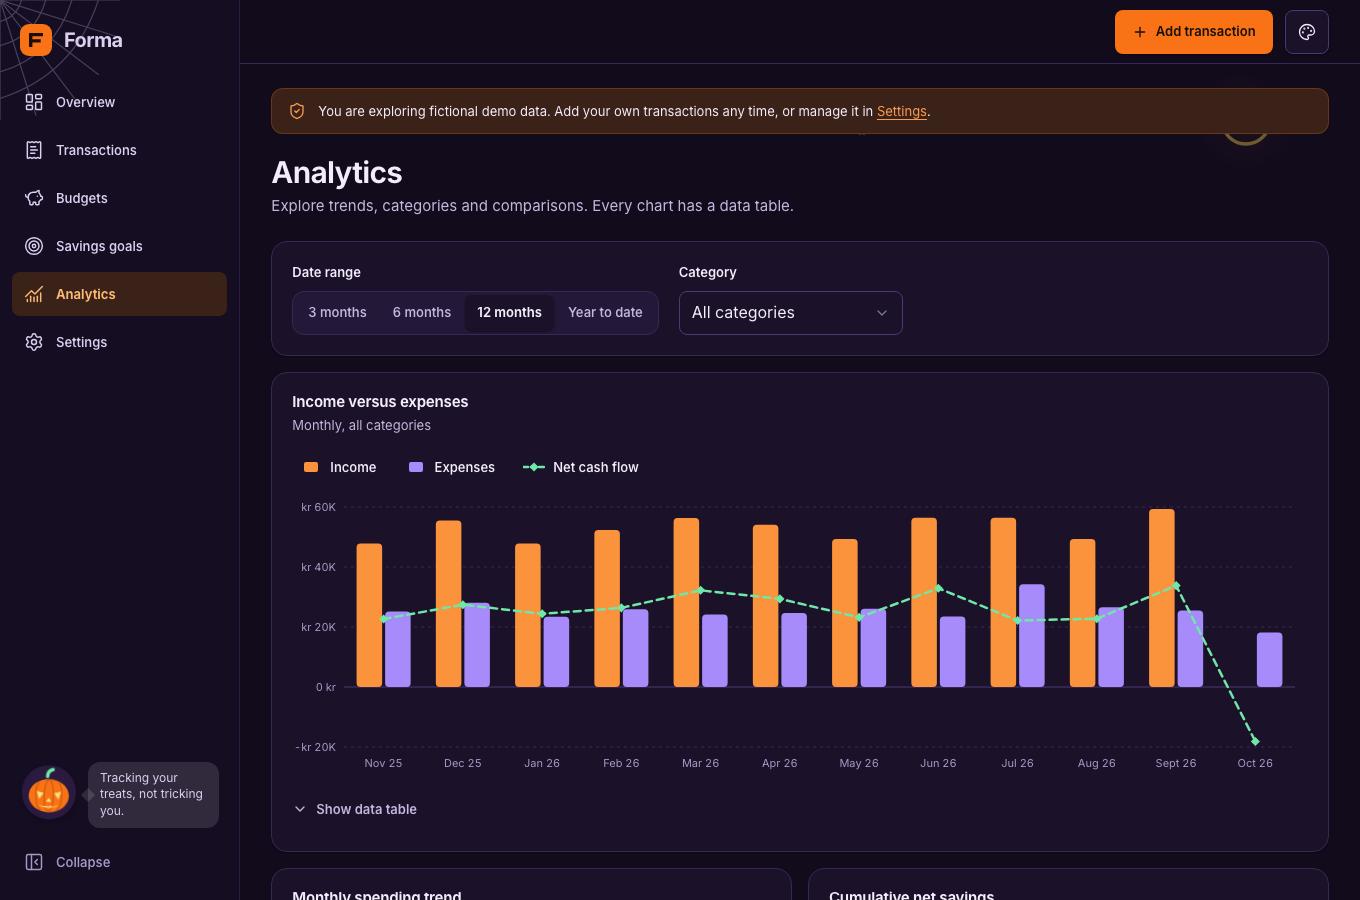
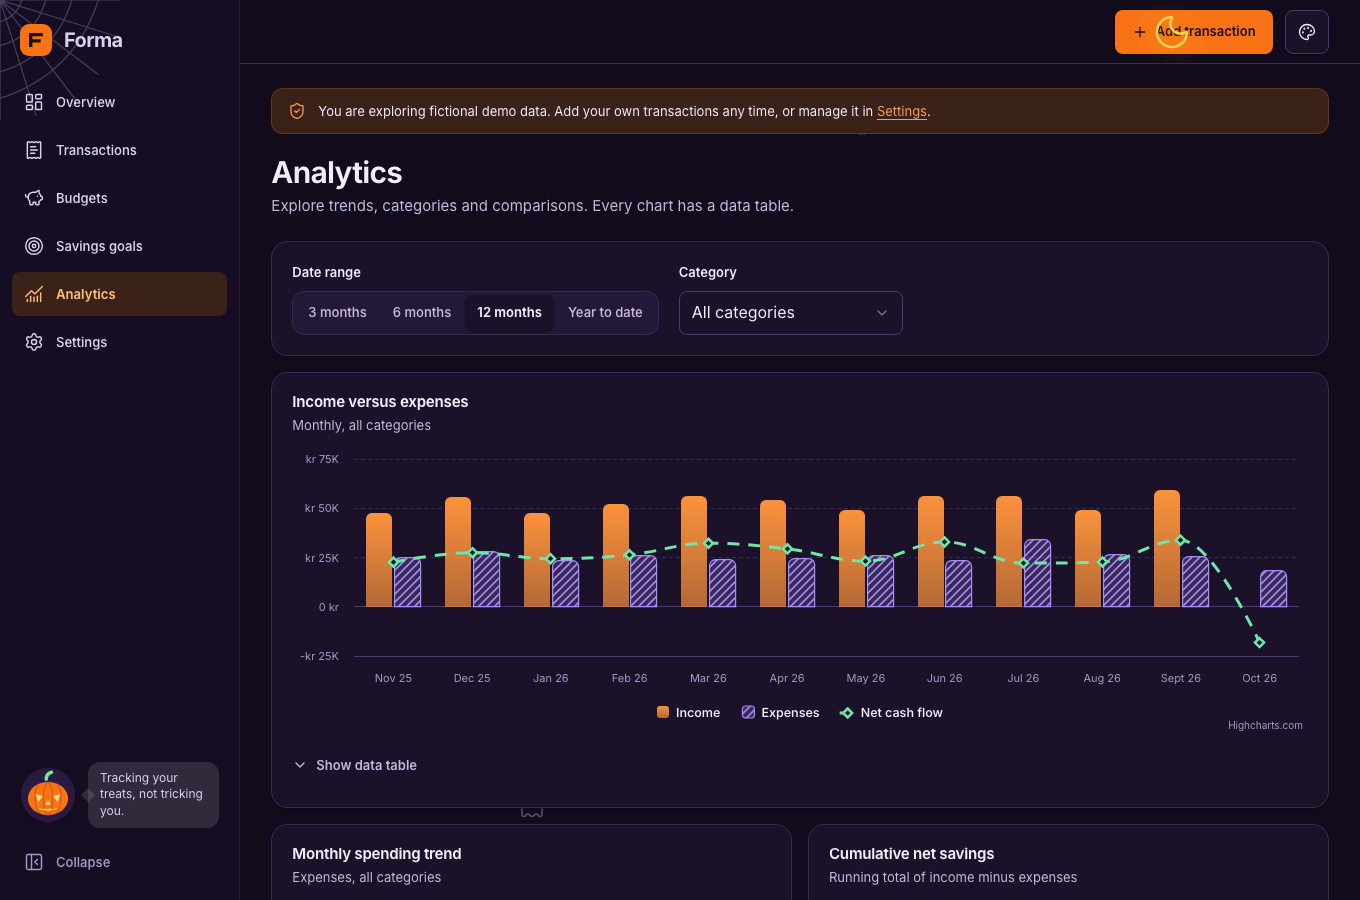
docs: refresh screenshots and add measured Lighthouse results with report images

diff --git a/README.md b/README.md
@@ -8,9 +8,13 @@ Forma Analytics is an independently branded educational and portfolio project, n
 
 ![Overview in the light theme](docs/screenshots/overview-light.png)
 
+| Analytics (light) | Spending heatmap (dark) |
+| --- | --- |
+| ![Analytics in the light theme](docs/screenshots/analytics-light.png) | ![Spending heatmap in the dark theme](docs/screenshots/heatmap-dark.png) |
+
 | Dark | Halloween | Christmas | Mobile (Summer) |
 | --- | --- | --- | --- |
-| ![Dark](docs/screenshots/overview-dark.png) | ![Halloween](docs/screenshots/analytics-halloween.png) | ![Christmas](docs/screenshots/budgets-christmas.png) | ![Mobile](docs/screenshots/overview-mobile.png) |
+| ![Overview in the dark theme](docs/screenshots/overview-dark.png) | ![Analytics in the Halloween theme](docs/screenshots/analytics-halloween.png) | ![Budgets in the Christmas theme](docs/screenshots/budgets-christmas.png) | ![Overview on a phone in the Summer theme](docs/screenshots/overview-mobile.png) |
 
 ## Features
 
@@ -95,15 +99,34 @@ The target is WCAG 2.2 AA. This includes semantic landmarks and headings, a skip
 
 ## Performance and Lighthouse
 
-Measured with Lighthouse against the production build served by `vite preview` on a local machine (Chrome, default Lighthouse throttling; mobile uses simulated slow 4G and 4x CPU slowdown). Re-measured on 8 Oct 2026 after the Highcharts integration with `npm run lighthouse`; raw results are in `reports/lighthouse.json`.
+Measured with Lighthouse against the **deployed site** (https://olebraende.github.io/forma-analytics/) on 8 Oct 2026, using Chrome with Lighthouse's default throttling (mobile means simulated slow 4G and a 4x CPU slowdown). Reproduce with `npm run lighthouse`; raw results are in `reports/lighthouse-live.json`, and `reports/lighthouse.json` holds an earlier run against a local production build.
+
+**Desktop: 100 in all four categories on every route.** These are the Overview scores, straight from the Lighthouse report:
+
+![Lighthouse desktop report for the Overview: Performance 100, Accessibility 100, Best Practices 100, SEO 100](docs/screenshots/lighthouse-desktop.png)
+
+**Mobile: 100 for Accessibility, Best Practices and SEO, but performance is below 100 on the Overview (92):**
+
+![Lighthouse mobile report for the Overview: Performance 92, Accessibility 100, Best Practices 100, SEO 100](docs/screenshots/lighthouse-mobile.png)
 
 | Route | Form factor | Performance | Accessibility | Best Practices | SEO | LCP | CLS |
 | --- | --- | --- | --- | --- | --- | --- | --- |
-| All six routes | Desktop | 100 | 100 | 100 | 100 | 0.5 to 0.6 s | 0 |
-| Overview | Mobile | 96 | 100 | 100 | 100 | 2.4 s | 0 |
-| Transactions, Budgets, Goals, Analytics, Settings | Mobile | 93 to 95 | 100 | 100 | 100 | 2.7 to 2.9 s | 0 |
+| / (Overview) | Desktop | 100 | 100 | 100 | 100 | 0.4 s | 0 |
+| /transactions | Desktop | 100 | 100 | 100 | 100 | 0.4 s | 0 |
+| /budgets | Desktop | 100 | 100 | 100 | 100 | 0.4 s | 0 |
+| /goals | Desktop | 100 | 100 | 100 | 100 | 0.4 s | 0 |
+| /analytics | Desktop | 100 | 100 | 100 | 100 | 0.4 s | 0 |
+| /settings | Desktop | 100 | 100 | 100 | 100 | 0.4 s | 0 |
+| / (Overview) | Mobile | 92 | 100 | 100 | 100 | 3.0 s | 0 |
+| /transactions | Mobile | 99 | 100 | 100 | 100 | 1.7 s | 0 |
+| /budgets | Mobile | 99 | 100 | 100 | 100 | 1.8 s | 0 |
+| /goals | Mobile | 99 | 100 | 100 | 100 | 1.8 s | 0 |
+| /analytics | Mobile | 97 | 100 | 100 | 100 | 1.8 s | 0 |
+| /settings | Mobile | 98 | 100 | 100 | 100 | 2.1 s | 0 |
 
-**Not 100 on mobile performance.** LCP under simulated slow 4G is limited by downloading and running the main bundle (about 94 KB gzipped, mostly React, React DOM and React Router; Highcharts is a separate lazy chunk) and then the lazy route chunk. Preloading the landing route's chunks helped the Overview. Further gains would likely require a smaller router or React alternative. Scores from a local server do not include real-network or CDN behaviour, so measure the deployed site too.
+**Why mobile performance is not 100.** On simulated slow 4G, the largest paint is limited by downloading and running the main bundle (about 94 KB gzipped, mostly React, React DOM and React Router) and then the lazy route chunk. The Overview is slowest because it also mounts the charts. Highcharts itself is a separate lazy chunk, and Motion loads after first paint. Preloading the landing route's chunks already helped; getting further would likely need a smaller router or React alternative. Scores vary from run to run.
+
+**Running Lighthouse yourself.** Use an incognito window with extensions turned off and keep the tab in the foreground until it finishes. Chrome may warn that IndexedDB data can affect results; that only means the app has saved data in that browser, and the page still renders normally. A "NO_FCP" error means the browser tab was not painting during the run, for example because it was in the background or an extension interfered.
 
 ## Deployment
 
